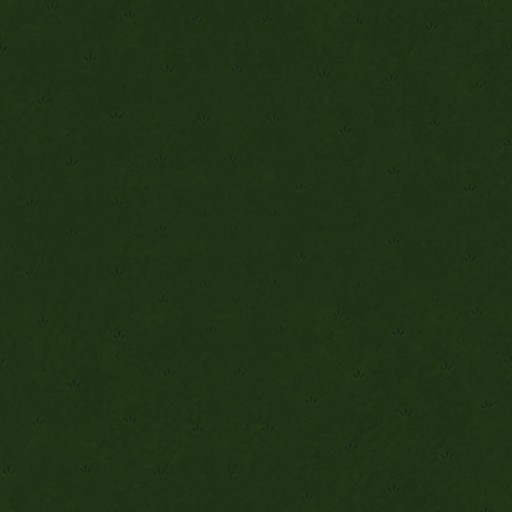
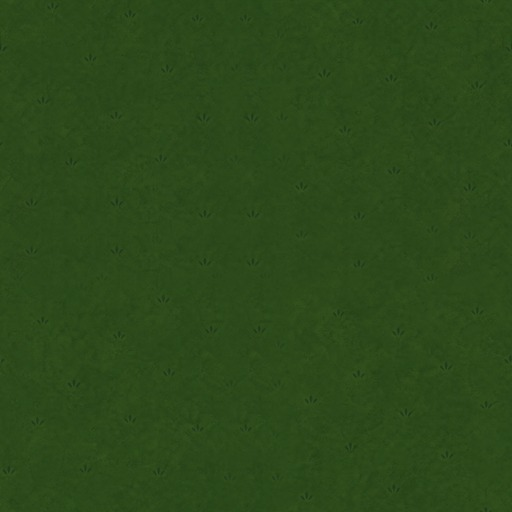
Tile island: match the reference better - grass tone + 3D cliff (v1059)
Grass reprocessed to the BIGBLK reference tone [44,73,27] with its texture kept (was over-darkened/flat). Coast rebuilt from flat color rings to an EXTRUDED earth-cliff face (stacked offset fills, darker toward the bottom) + sandy shore lip + dark grass-edge rim, so the island reads as a solid 3D block like the reference instead of a flat sticker. Base paths cached on ISLE (rebuilt on grow) so the per-frame extrusion stays cheap.

Still barer than the painted reference (trees/statue/well = next object sprites; cliff is a solid gradient, not painted rock). DEVICE-UNTESTED feel.

diff --git a/app.js b/app.js
@@ -5985,10 +5985,12 @@
   function drawTileGround(ctx) {
     if (!ISLE) buildIsle();
     if (!gtilePat) { var g = WORLD_IMG.gtile; if (g && g.complete && g.naturalWidth) { var gc = document.createElement("canvas"); gc.width = TILE; gc.height = TILE; gc.getContext("2d").drawImage(g, 0, 0, TILE, TILE); gtilePat = ctx.createPattern(gc, "repeat"); } }
-    ctx.fillStyle = "#0a2236"; ctx.fill(isleRects(19));   // wet water-edge rim (just darker than ocean)
-    ctx.fillStyle = "#5c4a34"; ctx.fill(isleRects(13));   // sandy shore
-    ctx.fillStyle = "#33240f"; ctx.fill(isleRects(7));    // earth cliff face
-    ctx.save(); ctx.clip(isleRects(0)); ctx.fillStyle = gtilePat || "#26401c"; ctx.fillRect(-4000, -4000, 8000, 8000); ctx.restore(); // seamless grass on the exact tiles → continuous interior, blocky coast on the rim
+    var base = ISLE._p0 || (ISLE._p0 = isleRects(0)), lip = ISLE._p1 || (ISLE._p1 = isleRects(3)), CH = 20;
+    ctx.save(); ctx.translate(6, CH + 10); ctx.fillStyle = "rgba(4,6,14,0.4)"; ctx.fill(base); ctx.restore(); // soft drop shadow on the water
+    for (var e = CH; e >= 1; e--) { var f = e / CH; ctx.fillStyle = "rgb(" + Math.round(52 - 28 * f) + "," + Math.round(36 - 20 * f) + "," + Math.round(20 - 12 * f) + ")"; ctx.save(); ctx.translate(0, e); ctx.fill(base); ctx.restore(); } // extruded earth-cliff face: island thickness, darker toward the bottom (3D block, like the reference)
+    ctx.fillStyle = "#6b5236"; ctx.save(); ctx.translate(0, 3); ctx.fill(lip); ctx.restore(); // thin sandy shore lip at the grass edge
+    ctx.save(); ctx.clip(base); ctx.fillStyle = gtilePat || "#2c4a1e"; ctx.fillRect(-4000, -4000, 8000, 8000); ctx.restore(); // seamless grass on the exact tiles → continuous interior
+    ctx.strokeStyle = "rgba(16,26,8,0.45)"; ctx.lineWidth = 2.5; ctx.stroke(base); // dark grass-edge rim → reads as a raised block
     if (SANCT_DBG) { ctx.fillStyle = "rgba(255,80,160,0.9)"; ISLE.tiles.forEach(function (k) { var a = k.split(","), tx = +a[0], ty = +a[1]; ctx.beginPath(); ctx.arc(tx * TILE, ty * TILE, 5, 0, 7); ctx.fill(); ctx.font = "18px sans-serif"; ctx.fillText(tx + "," + ty, tx * TILE + 6, ty * TILE); }); }
   }
   // real fairy sprite sheets (AI-generated, animated via Kling, sliced to frames)
@@ -12663,7 +12665,7 @@
   };
   function devLoadPersona(name) { var pDef = _DEV_PERSONAS[name]; if (!pDef) { try { toast("Unknown persona: " + name); } catch(e) {} return; } try { localStorage.setItem(KEY, JSON.stringify(_devMakeState(pDef))); location.replace("index.html?cb=" + Date.now()); } catch(e) { try { toast("Persona inject failed: " + e.message); } catch(e2) {} } }
   window.DEV = { open: devOpenStage, stage: devOpenStage, edgeInsp: function (on) { window.__edgeInsp = (on !== false); return "edge inspector " + (window.__edgeInsp ? "ON — tap a plan bubble" : "off"); }, cockpit: function () { TF_MODE = null; TF_MODE_USERSET = true; if (!TF_OPEN) openTrackerFull(); else renderTrackerFull(); return "cockpit"; }, demoProfile: devDemoProfile, seedDay: devSeedDay, guided: devGuided, reonboard: devReonboard, freshUser: devFreshUser, persona: devLoadPersona, sound: devToggleSound, mute: function () { setAudioVol("voice", 0); setAudioVol("bg", 0); try { TTS.stop(); } catch (e) {} save(); return "muted"; }, builder: function () { programBuilder({ track: STACK_PACKS[0].track.map(function (t) { return { k: t.k, d: t.d }; }) }); return "builder"; }, S: function () { return S; }, sf: function () { try { return sfNow(); } catch (e) { return e.message; } }, gauge: function () { S.gaugeK = null; gaugeOpen(function () { return "gauge closed"; }); return "gauge opened"; }, reset5: function () { runRitualReset(5); return "reset5"; }, ritual: function (tod, mins) { runRitual(tod || "am", mins || 5); return "ritual " + (tod || "am"); }, ritualSegs: function (tod, mins) { return composeRitual({ timeOfDay: tod || "am", mins: mins || 5 }); }, fd: function () { S.guide = S.guide || {}; S.guide.fd = { k: todayK() }; save(); try { drawJourney(true); } catch (e) {} return "five stones armed"; }, fdNodes: function () { var n = firstDayNodes(); return n ? n.map(function (x) { return { key: x.key, title: x.title, done: x.done, locked: !!x.locked }; }) : null; }, snapshot: shareSnapshot, pmClose: function () { return devOpenStage("pm"); }, dayClose: function () { return DEV.S().dayClose; }, streaks: function () { return { ahead: streakAhead(), follow: streakFollow(), plannedDays: Object.keys(paDaysPlanned()).sort() }; }, reset: function () { resetSprint(); return "reset opened"; }, spaceCheck: function () { S.profile = S.profile || {}; S.profile.spaceAsked = 0; spaceCheckOnce(); return "space check"; }, chains: function () { return DEV.S().chains; }, urge: function () { logUrge(); return "urge logged"; }, editBlock: function () { var k = todayK(), bl = (blocks(k) || []).filter(function (b) { return b.title; }); if (!bl.length) return "no blocks"; blockEdit(bl[0], k); return "editing " + bl[0].title; }, armChain: function (title, delay) { var k = todayK(), bl = (blocks(k) || []).filter(function (b) { return b.title; }); if (!bl.length) return "no blocks"; plantChain(bl[0], k, title || "move to the dryer", delay || 45); return { chains: S.chains, step1: bl[0].title }; }, moment: function (which) { S.nudge = { lastK: null, muteUntilK: null }; if (which === "drift") return offRamp(); if (which === "comeback") return comebackLadder(); if (which === "sleep") return tranquilityOffer(); if (which === "dial") return motivationDial({}); return checkMoments("dev"); }, canNudge: function () { return canNudge(); }, morningDoor: function () { morningDoor(); return "morning door"; }, theOpen: function () { theOpen(function () {}); return "the open"; }, openDaily: function () { theOpen(function () { try { drawJourney(true); } catch (e) {} }, { daily: true }); return "daily open"; }, lit: function () { return { lit: S.lit, gapDue: litGapDue(), door: (S.profile || {}).door, fd: (S.guide || {}).fd }; }, range: function () { rangeScene(function () { try { drawJourney(true); } catch (e) {} }); return "the range"; }, rangeS: function () { return rangeState(); }, relight: function () { relightScene(function () { try { drawJourney(true); } catch (e) {} }); return "relight"; }, anchorFire: function () { anchorFire(); return "anchor"; }, storm: function (on) { S.storm = on !== false; save(); try { drawJourney(true); } catch (e) {} return "storm " + (S.storm ? "ON" : "off"); }, entrySig: function () { entrySignature(); return "entry signature"; }, lesson: function (key) { var L = DAY1_LESSONS[key || "fd0"]; if (!L) return "keys: " + Object.keys(DAY1_LESSONS).join(","); runLesson(L); return "lesson " + (key || "fd0"); }, firstCommit: function () { firstCommit(); return "first commit"; }, firstDayStack: function () { firstDayStack(function () {}); return "first-day stack (stone 1)"; }, rewire: function () { reprogramTool(); return "rewire"; }, keepMantra: function () { offerKeepMantra(); return "keep-mantra"; }, mantra: function () { return DEV.S().mantra; }, wordsTourney: function () { wordsTournament(); return "words tournament"; }, weekSeal: function () { S._forceSunday = true; return devOpenStage("pm"); }, targets: function () { threeTargets(); return "three targets"; }, twoTuesdays: function () { twoTuesdays(); return "two tuesdays"; }, goals: function () { return DEV.S().goals; }, tool: function (id) { var t = TOOLS.filter(function (x) { return x.id === id; })[0]; if (!t) return "no tool " + id + " · ids: " + TOOLS.map(function (x) { return x.id; }).join(","); try { t.fn(); } catch (e) { return e.message; } return "launched " + id; }, energy: function (k) { _voltCache = { k: null, min: -1, rate: 1 }; var r = energyRate(k); return { rate: r, volt: voltClass(k).trim() || "neutral", ingredients: (S.profile || {}).ingredients || [] }; }, dealCard: function (m) { return deckPick(m || "pm-close"); }, deckMode: function () { return deckMode(); }, words: function () { return (S.profile || {}).words || []; }, tlm: function (d) { S.tlm = { k: todayK(), n: 0 }; triggerTLM({ domain: d, force: true }); return pickTLM(d); }, vkey: function (t) { return TTS.vkey(t); }, hasClip: function (t) { return TTS.hasClip(t); }, fullstack: function (m, tap) { runFullStack(m || 10, tap !== false); return "fullstack " + (m || 10); }, chargeSegs: function (s, tap) { return composeCharge(s || 180, tap !== false); }, compose: function (id, secs, guid) { S.tools = S.tools || {}; if (guid !== undefined) S.tools.guidance = guid; var med = (id === "meditate" || id === "medit") ? [{ k: "settle" }] : undefined; var r = composeStackSegs([{ id: id, nm: id, ic: "ti-yoga", c: "#46e2a4", secs: secs, med: med }]); var cues = r.segs.filter(function (s2) { return s2._act === 0 && s2.text; }).slice(1); var distinct = {}; cues.forEach(function (s2) { distinct[s2.text] = 1; }); var maxRepeat = 0, run = 1; for (var i = 1; i < cues.length; i++) { if (cues[i].text === cues[i - 1].text) { run++; if (run > maxRepeat) maxRepeat = run; } else run = 1; } return { depth: +sessionDepth(secs).toFixed(2), cueLines: cues.length, distinctLines: Object.keys(distinct).length, consecutiveRepeats: maxRepeat, gaps: cues.slice(0, 6).map(function (s2) { return +s2.gap.toFixed(1); }) }; } };
-  window.DEV.grow = function () { if (!ISLE) buildIsle(); var cur = []; ISLE.tiles.forEach(function (k) { var a = k.split(","); cur.push([+a[0], +a[1]]); }); var n = 0; cur.forEach(function (p) { [[1, 0], [-1, 0], [0, 1], [0, -1]].forEach(function (d) { var k = tkey(p[0] + d[0], p[1] + d[1]); if (!ISLE.tiles.has(k)) { ISLE.tiles.add(k); n++; } }); }); return "island grew by " + n + " tiles → " + ISLE.tiles.size + " total (seamless)"; }; // DEV: expand the island one ring → prove tiles add with no seam
+  window.DEV.grow = function () { if (!ISLE) buildIsle(); var cur = []; ISLE.tiles.forEach(function (k) { var a = k.split(","); cur.push([+a[0], +a[1]]); }); var n = 0; cur.forEach(function (p) { [[1, 0], [-1, 0], [0, 1], [0, -1]].forEach(function (d) { var k = tkey(p[0] + d[0], p[1] + d[1]); if (!ISLE.tiles.has(k)) { ISLE.tiles.add(k); n++; } }); }); ISLE._p0 = null; ISLE._p1 = null; return "island grew by " + n + " tiles → " + ISLE.tiles.size + " total (seamless)"; }; // DEV: expand the island one ring → prove tiles add with no seam
   function devInit() { if (!devOn() || el("devBtn")) return; var b = document.createElement("button"); b.id = "devBtn"; b.textContent = "🛠"; b.setAttribute("style", "position:fixed;left:6px;top:calc(6px + env(safe-area-inset-top));z-index:99999;width:34px;height:34px;border-radius:9px;border:2px solid #b07aff;background:rgba(40,16,48,.92);color:#fff;font-size:16px;line-height:1;"); b.onclick = devMenu; document.body.appendChild(b); }
   function soundMuted() { return !!(S.audio && S.audio.voice === 0 && S.audio.bg === 0); } // dev: fully silenced = both master buses at 0
   function devToggleSound() { var target = soundMuted() ? 1 : 0; setAudioVol("voice", target); setAudioVol("bg", target); if (!target) { try { TTS.stop(); } catch (e) {} } save(); try { toast("dev: sound " + (target ? "on" : "off")); } catch (e) {} return "sound " + (target ? "on" : "off"); } // zero both buses (voice + bg) → all audio silent live + persists in S.audio; toggles back to full

diff --git a/index.html b/index.html
@@ -2765,6 +2765,6 @@
     </div>
     <div class="ss-ver" id="ssVer"></div>
   </div>
-  <script src="app.js?v=1058"></script>
+  <script src="app.js?v=1059"></script>
 </body>
 </html>